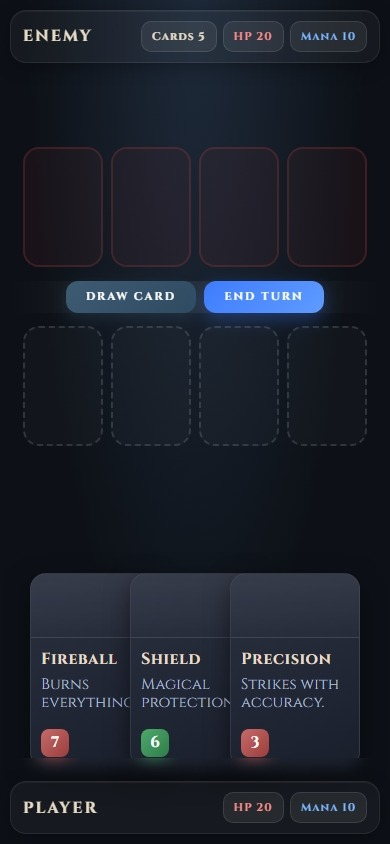
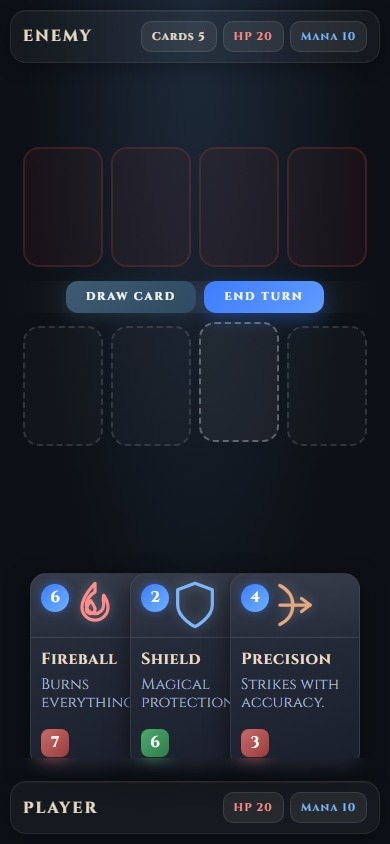
feat(ui): add mana cost badge to cards

diff --git a/styles.css b/styles.css
@@ -43,6 +43,7 @@
   --color-bg-btn-draw: linear-gradient(135deg, #3e5b74, #2f4b62);
   --color-bg-btn-draw-hover: linear-gradient(135deg, #4e6f8d, #385670);
   --color-bg-card: linear-gradient(160deg, #2b3140, #1a1f2c);
+  --color-bg-card-mana: linear-gradient(135deg, #3f7cff, #6cb2ff);
   --color-bg-card-attack: linear-gradient(135deg, #c96a6a, #9b3d3d);
   --color-bg-card-health: linear-gradient(135deg, #4ea96b, #2f7d4a);
 
@@ -63,6 +64,7 @@
   --shadow-box-btn-draw: 0 5px 15px rgba(56, 86, 112, 0.32);
   --shadow-box-btn-draw-hover: 0 7px 18px rgba(56, 86, 112, 0.36);
   --shadow-box-card: 0 8px 24px rgba(0, 0, 0, 0.5);
+  --shadow-box-card-mana: 0 0 10px rgba(63, 124, 255, 0.5);
   
   --shadow-filter-icon: drop-shadow(0 0 6px rgba(190, 220, 255, 0.3));
 
@@ -188,7 +190,7 @@ body {
 
 .player-panel__stat {
   padding: var(--size-padding-block-panel-stat) var(--size-padding-inline-panel-stat);
-  
+   
   background-color: var(--color-bg-panel-stat);
   border-radius: var(--size-radius-panel-stat);
   border: 1px solid var(--color-border-panel-stat);
@@ -196,10 +198,6 @@ body {
   font-size: var(--size-font-global-small);
   font-weight: 700;
   letter-spacing: var(--size-letter-spacing-global-normal);
-}
-
-.player-panel__stat--cards-counter {
-  /*  TODO */
 }
 
 .player-panel__stat--hp {
@@ -429,6 +427,28 @@ body {
   transform: translateY(clamp(-24px, -28cqi, -40px));
   border-color: var(--color-border-card-selected);
   z-index: 10;
+}
+
+.card__mana {
+  position: absolute;
+  top: var(--size-space-global-sm);
+  left: var(--size-space-global-sm);
+  z-index: 1;
+
+  width: clamp(28px, 22cqi, 48px);
+  height: clamp(28px, 22cqi, 48px);
+  border-radius: 50%;
+
+  display: flex;
+  justify-content: center;
+  align-items: center;
+
+  color: var(--color-text-base-inverse);
+  font-size: var(--size-font-global-medium);
+  font-weight: 900;
+
+  background: var(--color-bg-card-mana);
+  box-shadow: var(--shadow-box-card-mana);
 }
 
 .card__art {

diff --git a/index.html b/index.html
@@ -18,7 +18,7 @@
     <section class="player-panel player-panel--enemy" aria-label="Enemy status">
       <h2 class="player-panel__name">Enemy</h2>
       <div class="player-panel__stats">
-        <div class="player-panel__stat player-panel__stat--cards-counter">
+        <div class="player-panel__stat">
           Cards 5
         </div>
         <div class="player-panel__stat player-panel__stat--hp">HP 20</div>
@@ -60,6 +60,8 @@
     <div class="card-hand" role="group" aria-label="Player hand">
       <!-- #region card: FIREBALL -->
       <article class="card" tabindex="0">
+        <div class="card__mana" aria-label="Mana cost 6">6</div>
+
         <div class="card__art">
             <svg class="card__art-icon card__art-icon--fire" viewBox="0 0 24 24" aria-hidden="true">
               <path d="M12 2C12 2 6 8 6 13a6 6 0 0012 0c0-2-1-4-2-5.5C15.5 9 16 10.5 16 12a4 4 0 01-8 0c0-2.5 2-5 4-6z"/>
@@ -78,6 +80,8 @@
 
       <!-- #region card: SHIELD -->
       <article class="card" tabindex="0">
+        <div class="card__mana" aria-label="Mana cost 2">2</div>
+
         <div class="card__art">
           <svg class="card__art-icon card__art-icon--shield" viewBox="0 0 24 24" aria-hidden="true">
             <path d="M12 22s8-4 8-10V5l-8-3-8 3v7c0 6 8 10 8 10z"/>
@@ -95,6 +99,8 @@
 
       <!-- #region card: PRECISION -->
       <article class="card" tabindex="0">
+        <div class="card__mana" aria-label="Mana cost 4">4</div>
+
         <div class="card__art">
           <svg class="card__art-icon card__art-icon--bow" viewBox="0 0 24 24" aria-hidden="true">
             <path d="M5 3c8 4 8 14 0 18"/>

diff --git a/README.md b/README.md
@@ -3,7 +3,7 @@
 <pre align="center">
   ⚔️  ✦  ⚔️  ✦  ⚔️  ✦  ⚔️
  ╔═══════════════════╗
- ║ C A R D   D U E L ║
+   C A R D   D U E L 
  ╚═══════════════════╝
   ⚔️  ✦  ⚔️  ✦  ⚔️  ✦  ⚔️
 </pre>
@@ -157,6 +157,7 @@ PLAYER REGION
 │
 ├── .card-hand
 │    └─ .card * N
+│        ├─ .card__mana
 │        ├─ .card__art
 │        ├─ .card__content
 │        │    ├─ .card__title